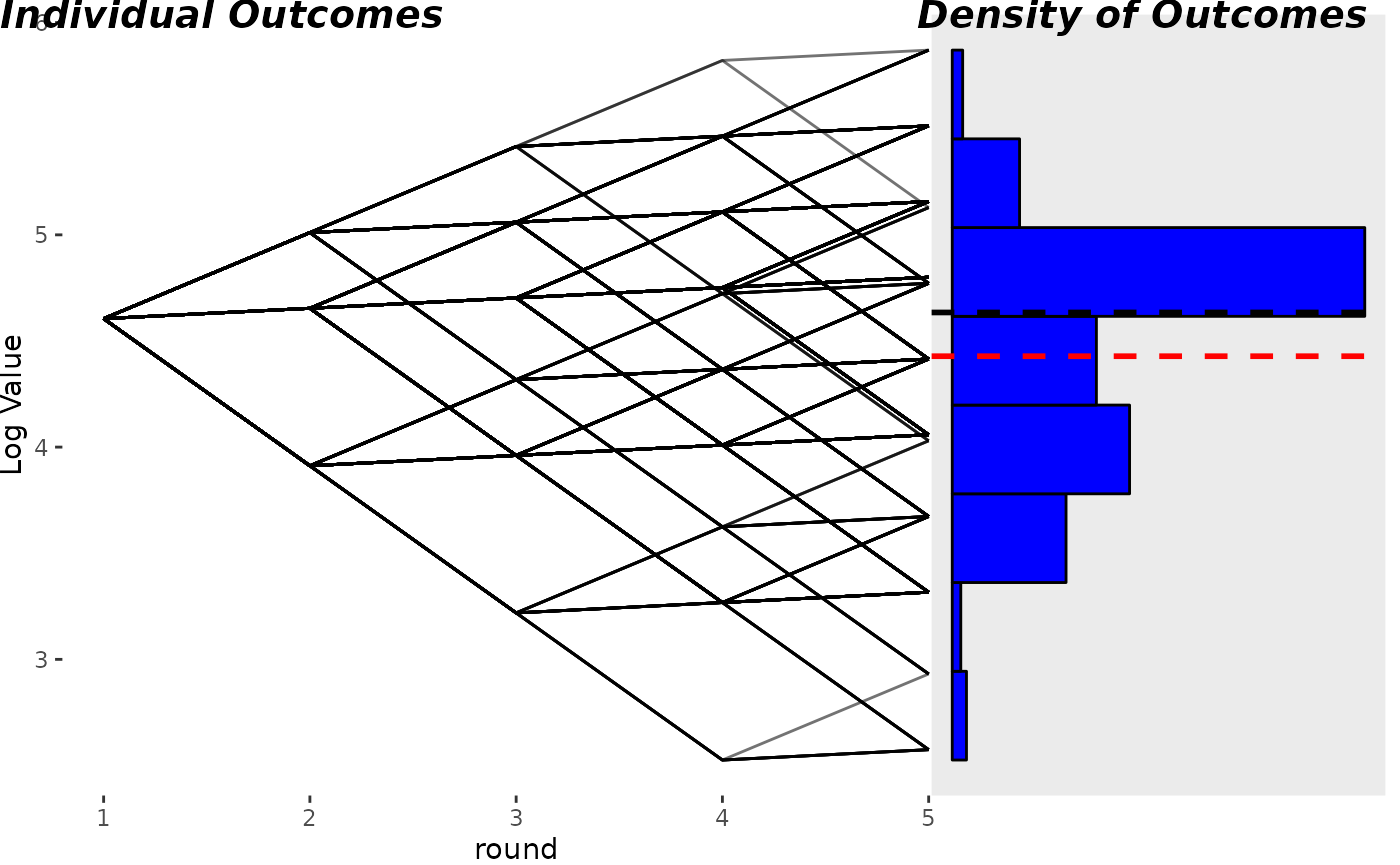
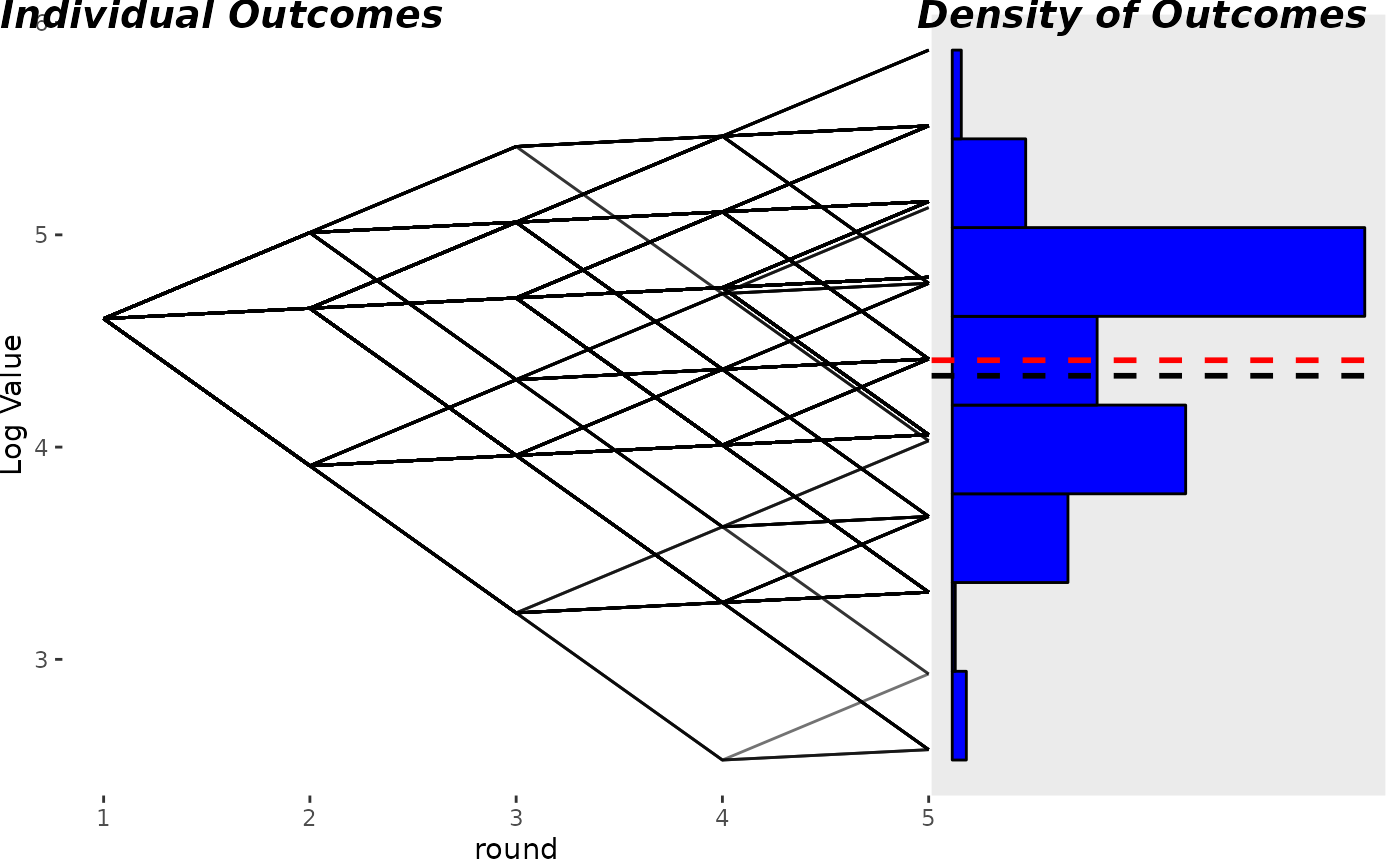
Deploying to gh-pages from @ misikoff/TailRiskAnalyzer@180c04eadcb6fbd036fdfad76fd2d87c4976aa63 🚀

diff --git a/reference/create_side_by_side_plot.html b/reference/create_side_by_side_plot.html
@@ -55,7 +55,7 @@
 
     <div class="section level2">
     <h2 id="ref-usage">Usage<a class="anchor" aria-label="anchor" href="#ref-usage"></a></h2>
-    <div class="sourceCode"><pre class="sourceCode r"><code><span><span class="fu">create_side_by_side_plot</span><span class="op">(</span><span class="va">df</span>, use_log <span class="op">=</span> <span class="cn">TRUE</span><span class="op">)</span></span></code></pre></div>
+    <div class="sourceCode"><pre class="sourceCode r"><code><span><span class="fu">create_side_by_side_plot</span><span class="op">(</span><span class="va">df</span>, use_log <span class="op">=</span> <span class="cn">TRUE</span>, quantiles <span class="op">=</span> <span class="fu"><a href="https://rdrr.io/r/base/c.html" class="external-link">c</a></span><span class="op">(</span><span class="op">)</span><span class="op">)</span></span></code></pre></div>
     </div>
 
     <div class="section level2">
@@ -66,6 +66,10 @@
 
 <dt>use_log</dt>
 <dd><p>Whether to use a log scale</p></dd>
+
+
+<dt>quantiles</dt>
+<dd><p>A vector of quantiles to show as lines</p></dd>
 
 </dl></div>
     <div class="section level2">

diff --git a/articles/kelly.html b/articles/kelly.html
@@ -110,7 +110,7 @@
 <span><span class="co"># get_kelly_bet(0.5, 0.5, 2)</span></span>
 <span></span>
 <span><span class="fu"><a href="../reference/create_side_by_side_plot.html">create_side_by_side_plot</a></span><span class="op">(</span><span class="va">df</span><span class="op">)</span></span>
-<span><span class="co">#&gt; [1] 3.672313</span></span></code></pre></div>
+<span><span class="co">#&gt; [1] 6.273981</span></span></code></pre></div>
 <p><img src="kelly_files/figure-html/unnamed-chunk-2-1.png" width="700"></p>
 <div class="section level2">
 <h2 id="theoretical-distribution-based-on-all-possible-outcomes">Theoretical Distribution, based on all possible outcomes<a class="anchor" aria-label="anchor" href="#theoretical-distribution-based-on-all-possible-outcomes"></a>

diff --git a/articles/dice.html b/articles/dice.html
@@ -111,7 +111,7 @@
 <span><span class="op">}</span></span>
 <span></span>
 <span><span class="fu"><a href="../reference/create_side_by_side_plot.html">create_side_by_side_plot</a></span><span class="op">(</span><span class="va">df</span><span class="op">)</span></span>
-<span><span class="co">#&gt; [1] 4.525297</span></span></code></pre></div>
+<span><span class="co">#&gt; [1] 4.502584</span></span></code></pre></div>
 <p><img src="dice_files/figure-html/unnamed-chunk-2-1.png" width="700"></p>
 </div>
 <div class="section level2">
